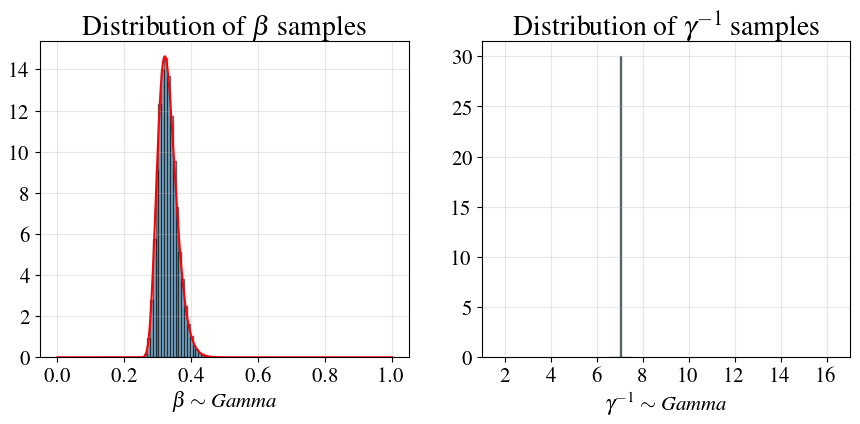
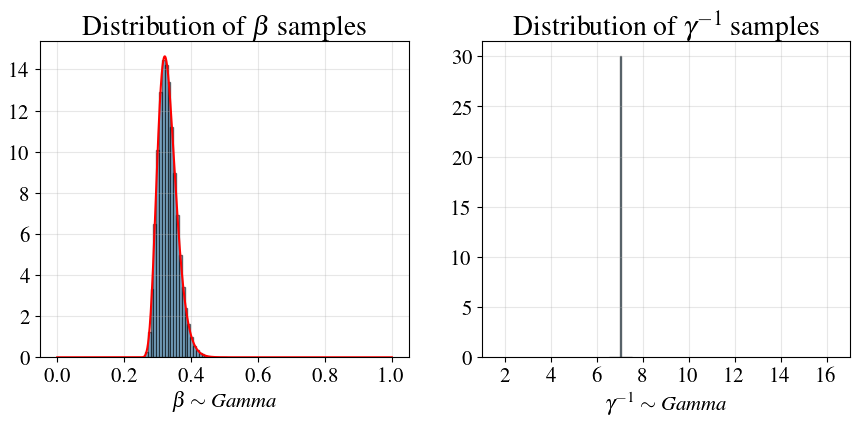
changes for paper plots

Changed region(s): [[0.1512, 0.1533, 0.2419, 0.8585]]

diff --git a/sec4a_sensitivitySample_baselineSIR_model.py b/sec4a_sensitivitySample_baselineSIR_model.py
@@ -1,8 +1,8 @@
 # Custom classes and helper/plotting functions
 from epimodels.stochastic_sir    import *
 from epimodels.utils  import *
-# from epimodels.plots  import *
-from epimodels.plots_local  import *
+from epimodels.plots  import *
+# from epimodels.plots_local  import *
 from epimodels.sims   import *
 
 
@@ -114,8 +114,8 @@ def run(prob_type = 'gamma'):
     rollouts  = pow(10,5)
     viz_plots = 0
 
-    # for test_num in [1, 2, 3]:
-    for test_num in [3]:        
+    for test_num in [1, 2, 3]:
+    # for test_num in [3]:        
         prob_params, plot_vars        = getSIRTestingParams(test_num=test_num, prob_type=prob_type,**sim_kwargs)
         
         # unpack plotting and file variables
